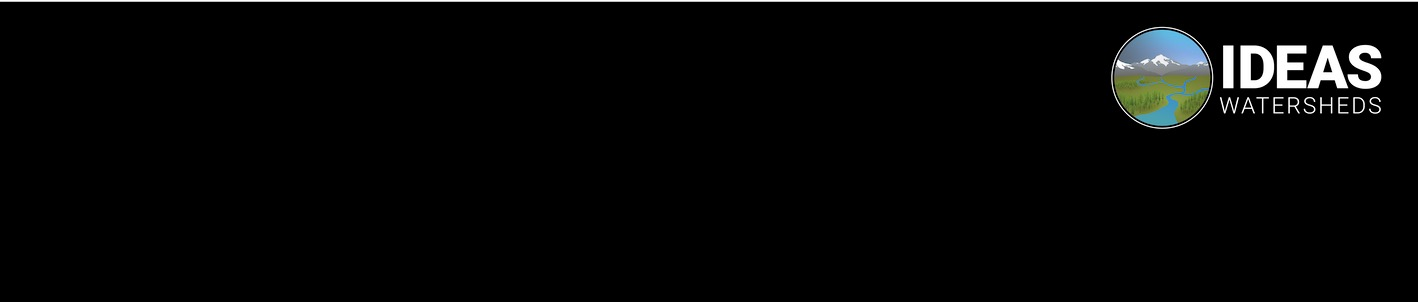
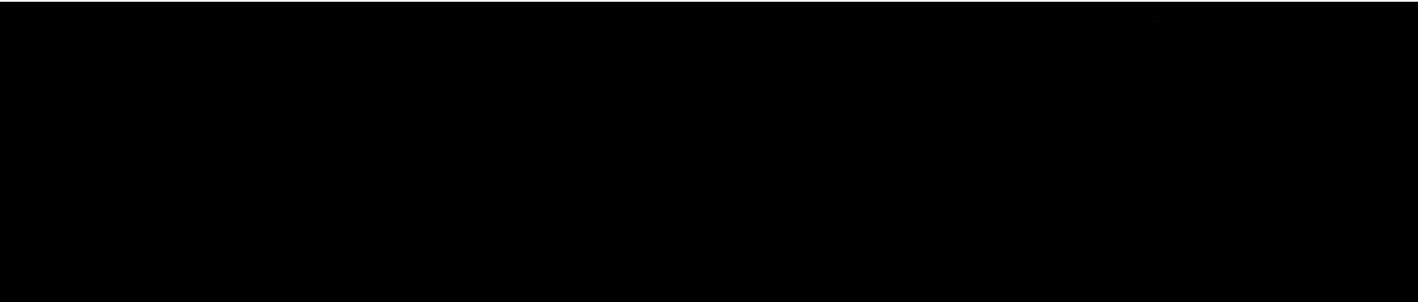
hero research

Changed region(s): [[0.7757, 0.0894, 0.9929, 0.447]]

diff --git a/_site/research/conus/index.html b/_site/research/conus/index.html
@@ -140,7 +140,7 @@
 </nav>
 
     
-        <section class="hero  is_fullheight  is-bold is-primary"  style="background: url('/../img/black.jpg') no-repeat center center; background-size: cover;" >
+        <section class="hero  is_fullheight  is-bold is-primary"  style="background: url('/../img/hero_research.jpg') no-repeat center center; background-size: cover;" >
     <div class="hero-body ">
         <div class="container">
             <p class="subtitle is-3">&nbsp;  </p>

diff --git a/_site/research/infrastructure/index.html b/_site/research/infrastructure/index.html
@@ -140,7 +140,7 @@
 </nav>
 
     
-        <section class="hero  is_fullheight  is-bold is-primary"  style="background: url('/../img/black.jpg') no-repeat center center; background-size: cover;" >
+        <section class="hero  is_fullheight  is-bold is-primary"  style="background: url('/../img/hero_research.jpg') no-repeat center center; background-size: cover;" >
     <div class="hero-body ">
         <div class="container">
             <p class="subtitle is-3">&nbsp;  </p>

diff --git a/_site/research/lbnl-sfa/index.html b/_site/research/lbnl-sfa/index.html
@@ -140,7 +140,7 @@
 </nav>
 
     
-        <section class="hero  is_fullheight  is-bold is-primary"  style="background: url('/../img/black.jpg') no-repeat center center; background-size: cover;" >
+        <section class="hero  is_fullheight  is-bold is-primary"  style="background: url('/../img/hero_research.jpg') no-repeat center center; background-size: cover;" >
     <div class="hero-body ">
         <div class="container">
             <p class="subtitle is-3">&nbsp;  </p>

diff --git a/_site/research/ornl-sfa/index.html b/_site/research/ornl-sfa/index.html
@@ -140,7 +140,7 @@
 </nav>
 
     
-        <section class="hero  is_fullheight  is-bold is-primary"  style="background: url('/../img/black.jpg') no-repeat center center; background-size: cover;" >
+        <section class="hero  is_fullheight  is-bold is-primary"  style="background: url('/../img/hero_research.jpg') no-repeat center center; background-size: cover;" >
     <div class="hero-body ">
         <div class="container">
             <p class="subtitle is-3">&nbsp;  </p>

diff --git a/_site/research/pnnl-sfa/index.html b/_site/research/pnnl-sfa/index.html
@@ -140,7 +140,7 @@
 </nav>
 
     
-        <section class="hero  is_fullheight  is-bold is-primary"  style="background: url('/../img/black.jpg') no-repeat center center; background-size: cover;" >
+        <section class="hero  is_fullheight  is-bold is-primary"  style="background: url('/../img/hero_research.jpg') no-repeat center center; background-size: cover;" >
     <div class="hero-body ">
         <div class="container">
             <p class="subtitle is-3">&nbsp;  </p>

diff --git a/_site/research/reaction/index.html b/_site/research/reaction/index.html
@@ -140,7 +140,7 @@
 </nav>
 
     
-        <section class="hero  is_fullheight  is-bold is-primary"  style="background: url('/../img/black.jpg') no-repeat center center; background-size: cover;" >
+        <section class="hero  is_fullheight  is-bold is-primary"  style="background: url('/../img/hero_research.jpg') no-repeat center center; background-size: cover;" >
     <div class="hero-body ">
         <div class="container">
             <p class="subtitle is-3">&nbsp;  </p>

diff --git a/_site/research/index.html b/_site/research/index.html
@@ -140,7 +140,7 @@
 </nav>
 
     
-        <section class="hero  is_fullheight  is-bold is-primary"  style="background: url('/img/black.jpg') no-repeat center center; background-size: cover;" >
+        <section class="hero  is_fullheight  is-bold is-primary"  style="background: url('/img/hero_research.jpg') no-repeat center center; background-size: cover;" >
     <div class="hero-body ">
         <div class="container">
             <p class="subtitle is-3">&nbsp;  </p>

diff --git a/research.md b/research.md
@@ -2,7 +2,7 @@
 layout: page
 title: Research Activities
 permalink: /research/
-hero_image: /img/black.jpg
+hero_image: /img/hero_research.jpg
 hero_height: is_fullheight
 
 ---
